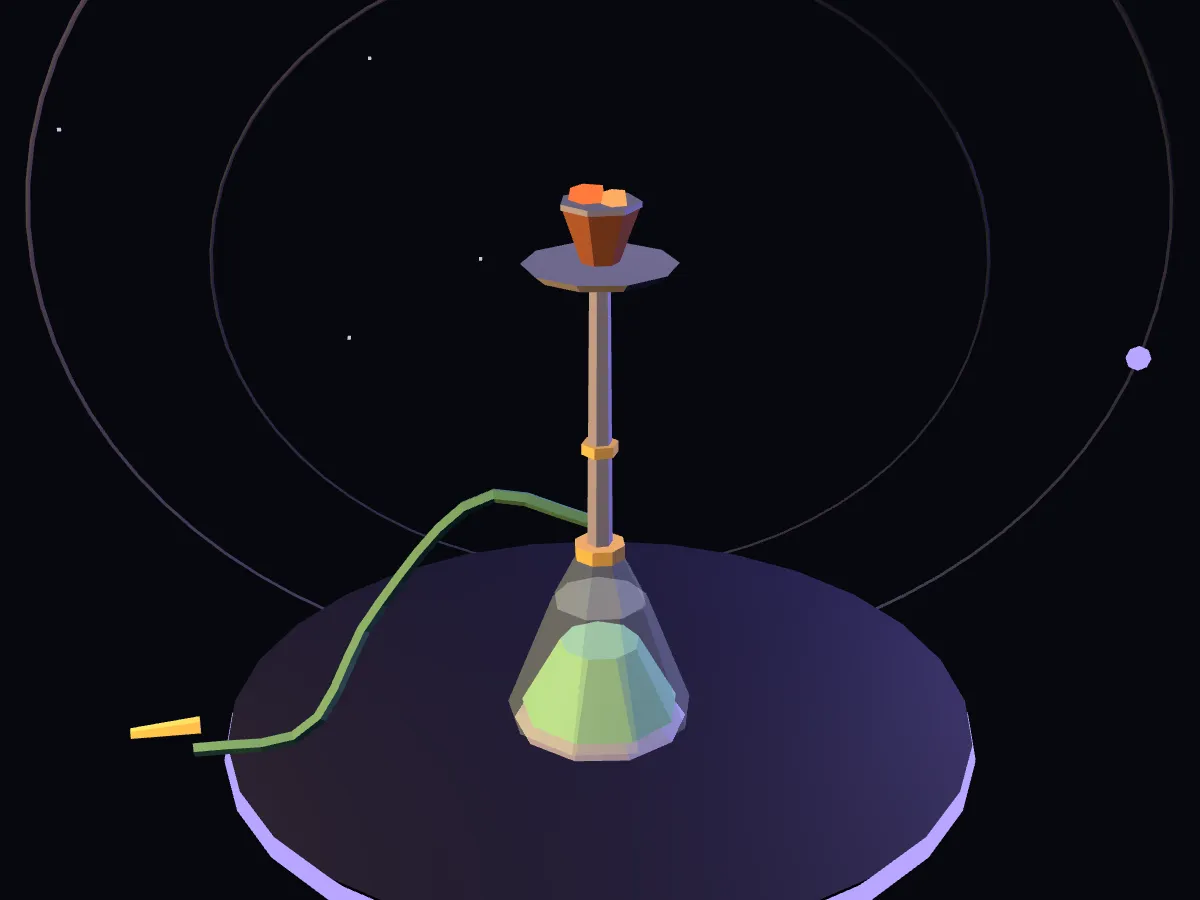
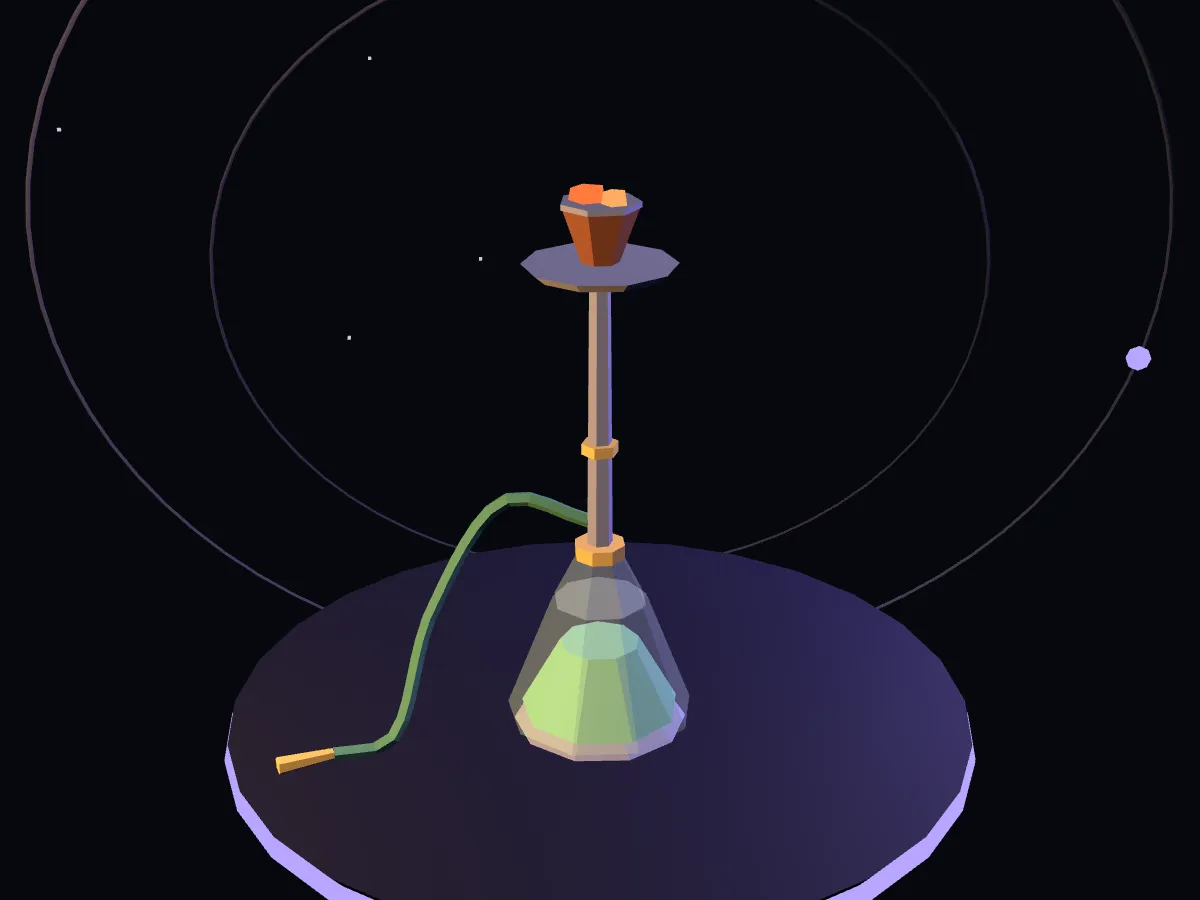
Attach the hookah mouthpiece to the end of its hose and keep the hose on the table

Changed region(s): [[0.0925, 0.5289, 0.4625, 0.8711]]

diff --git a/resources/js/studio/menu.js b/resources/js/studio/menu.js
@@ -3,7 +3,7 @@
 // What is drawn comes from the item's category and from keywords in its English name and
 // description. A random generator seeded with the item name varies the details, so every
 // item looks a little different, and the same item always renders the same way.
-import { CatmullRomCurve3, Euler, Group, TorusGeometry, TubeGeometry, Vector3 } from 'three';
+import { CatmullRomCurve3, CylinderGeometry, Euler, Group, Quaternion, TorusGeometry, TubeGeometry, Vector3 } from 'three';
 import { Batch, COLORS, mix, seededRandom } from '../lounge3d/kit.js';
 
 const TINTS = [
@@ -67,12 +67,24 @@ function hookah(batch, x, z, tint, random, scale = 1) {
     batch.cylinder(`glow:${COLORS.ember}`, 0.045 * s, 0.05 * s, 0.03 * s, x - 0.03 * s, 1.475 * s, z, 5);
     batch.cylinder(`glow:${mix(COLORS.ember, '#ffd27a', 0.5)}`, 0.03 * s, 0.035 * s, 0.03 * s, x + 0.045 * s, 1.475 * s, z + 0.02 * s, 5);
 
-    // Hose: leaves the stem, sags, and comes to rest on the table with a gold mouthpiece.
-    const side = random() > 0.5 ? 1 : -1;
-    const points = [[0.03, 0.6, 0], [0.3, 0.66, 0.06], [0.58, 0.34, 0.2], [0.72, 0.05, 0.38], [0.98, 0.03, 0.52]]
+    // Hose: leaves the stem, sags, and comes to rest on the table top. A hookah that stands
+    // off centre curls its hose towards the middle, so the hose never hangs over the edge.
+    const side = Math.abs(x) > 0.2 ? -Math.sign(x) : (random() > 0.5 ? 1 : -1);
+    const rest = 0.02 * s + 0.002;
+    const points = [[0.03, 0.6, 0], [0.24, 0.66, 0.06], [0.42, 0.36, 0.18], [0.5, rest / s, 0.32], [0.62, rest / s, 0.42]]
         .map(([dx, y, dz]) => new Vector3(x + side * dx * s, y * s, z + dz * s));
-    batch.add(new TubeGeometry(new CatmullRomCurve3(points), 16, 0.02 * s, 5), mix(tint, '#20202c', 0.6), 0, 0, 0);
-    batch.cylinder(COLORS.gold, 0.016 * s, 0.026 * s, 0.18 * s, x + side * 1.04 * s, 0.01, z + 0.55 * s, 5, new Euler(Math.PI / 2, 0, -side * 1.05));
+    const curve = new CatmullRomCurve3(points);
+    batch.add(new TubeGeometry(curve, 20, 0.02 * s, 5), mix(tint, '#20202c', 0.6), 0, 0, 0);
+
+    // The mouthpiece sits on the end of the hose and points the same way.
+    const end = curve.getPointAt(1);
+    const along = curve.getTangentAt(1);
+    along.y = 0;
+    along.normalize();
+    const length = 0.15 * s;
+    const mouthpiece = new CylinderGeometry(0.016 * s, 0.025 * s, length, 6).translate(0, -length / 2, 0);
+    const turn = new Quaternion().setFromUnitVectors(new Vector3(0, -1, 0), along);
+    batch.add(mouthpiece, COLORS.gold, end.x, rest, end.z, new Euler().setFromQuaternion(turn));
 }
 
 function ice(batch, x, y, z, random, count, spread) {
